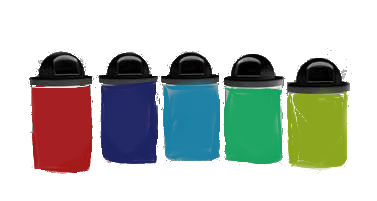
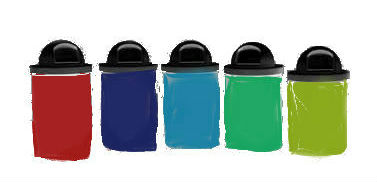
home page fixes

diff --git a/ASPProject/Content/bootstrap-readable.css b/ASPProject/Content/bootstrap-readable.css
@@ -1281,6 +1281,7 @@ h3,
 h4,
 .h4 {
   font-size: 20px;
+  color:midnightblue
 }
 h5,
 .h5 {
@@ -4963,7 +4964,7 @@ a.badge:focus {
     position: center;
     background: #000 url("trashcans.jpg") ;
     width: 100%;
-    height: 30%;
+    height: 40%;
     background-size: cover;
     overflow: hidden;
 }
